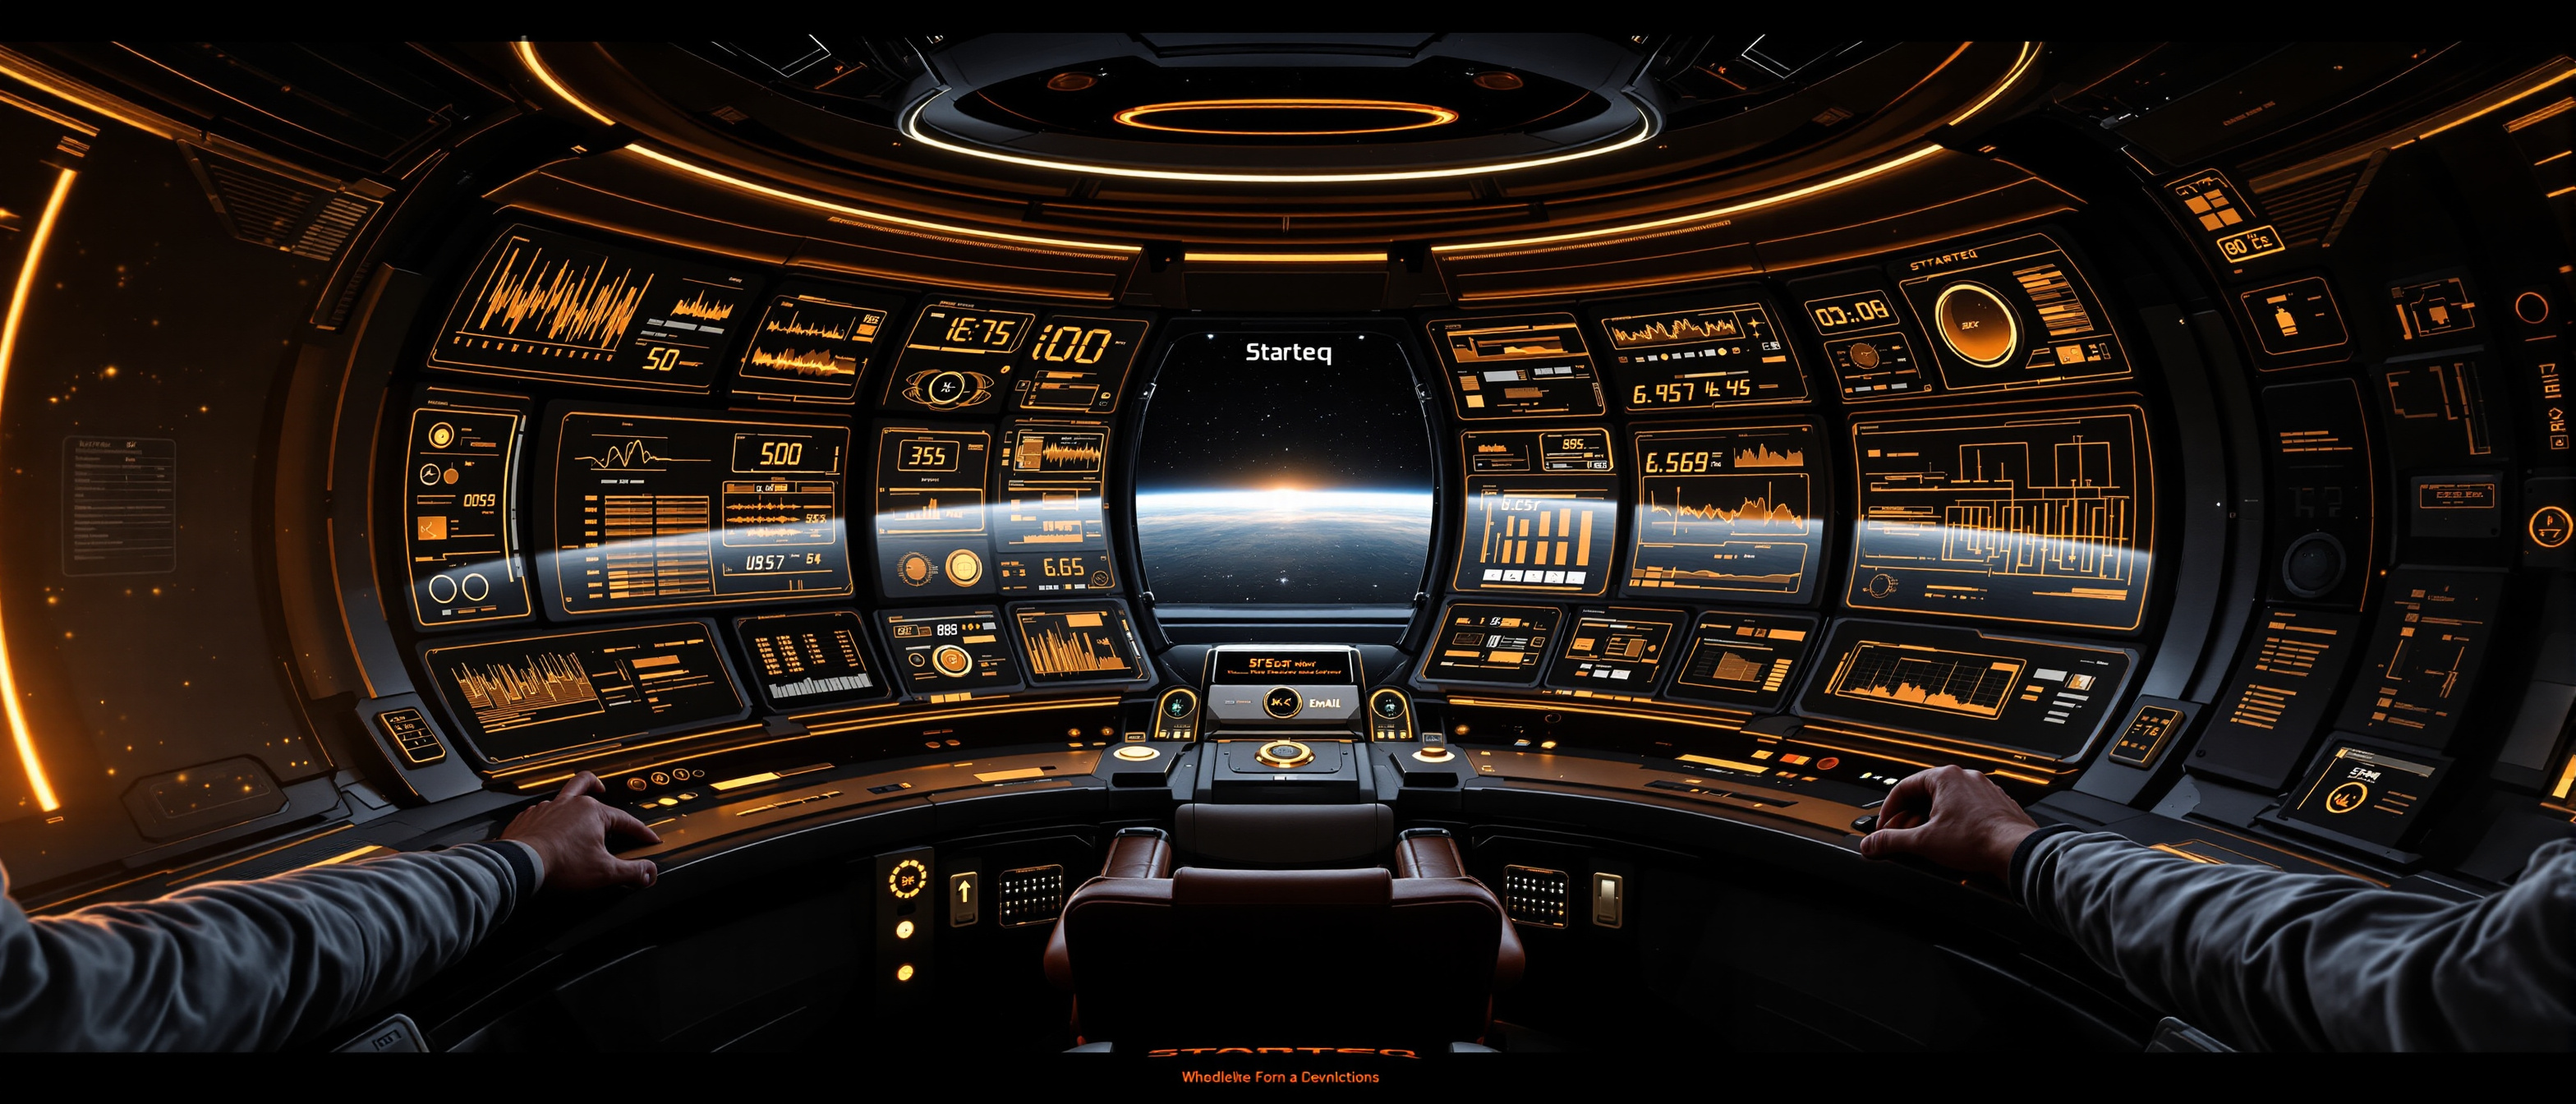
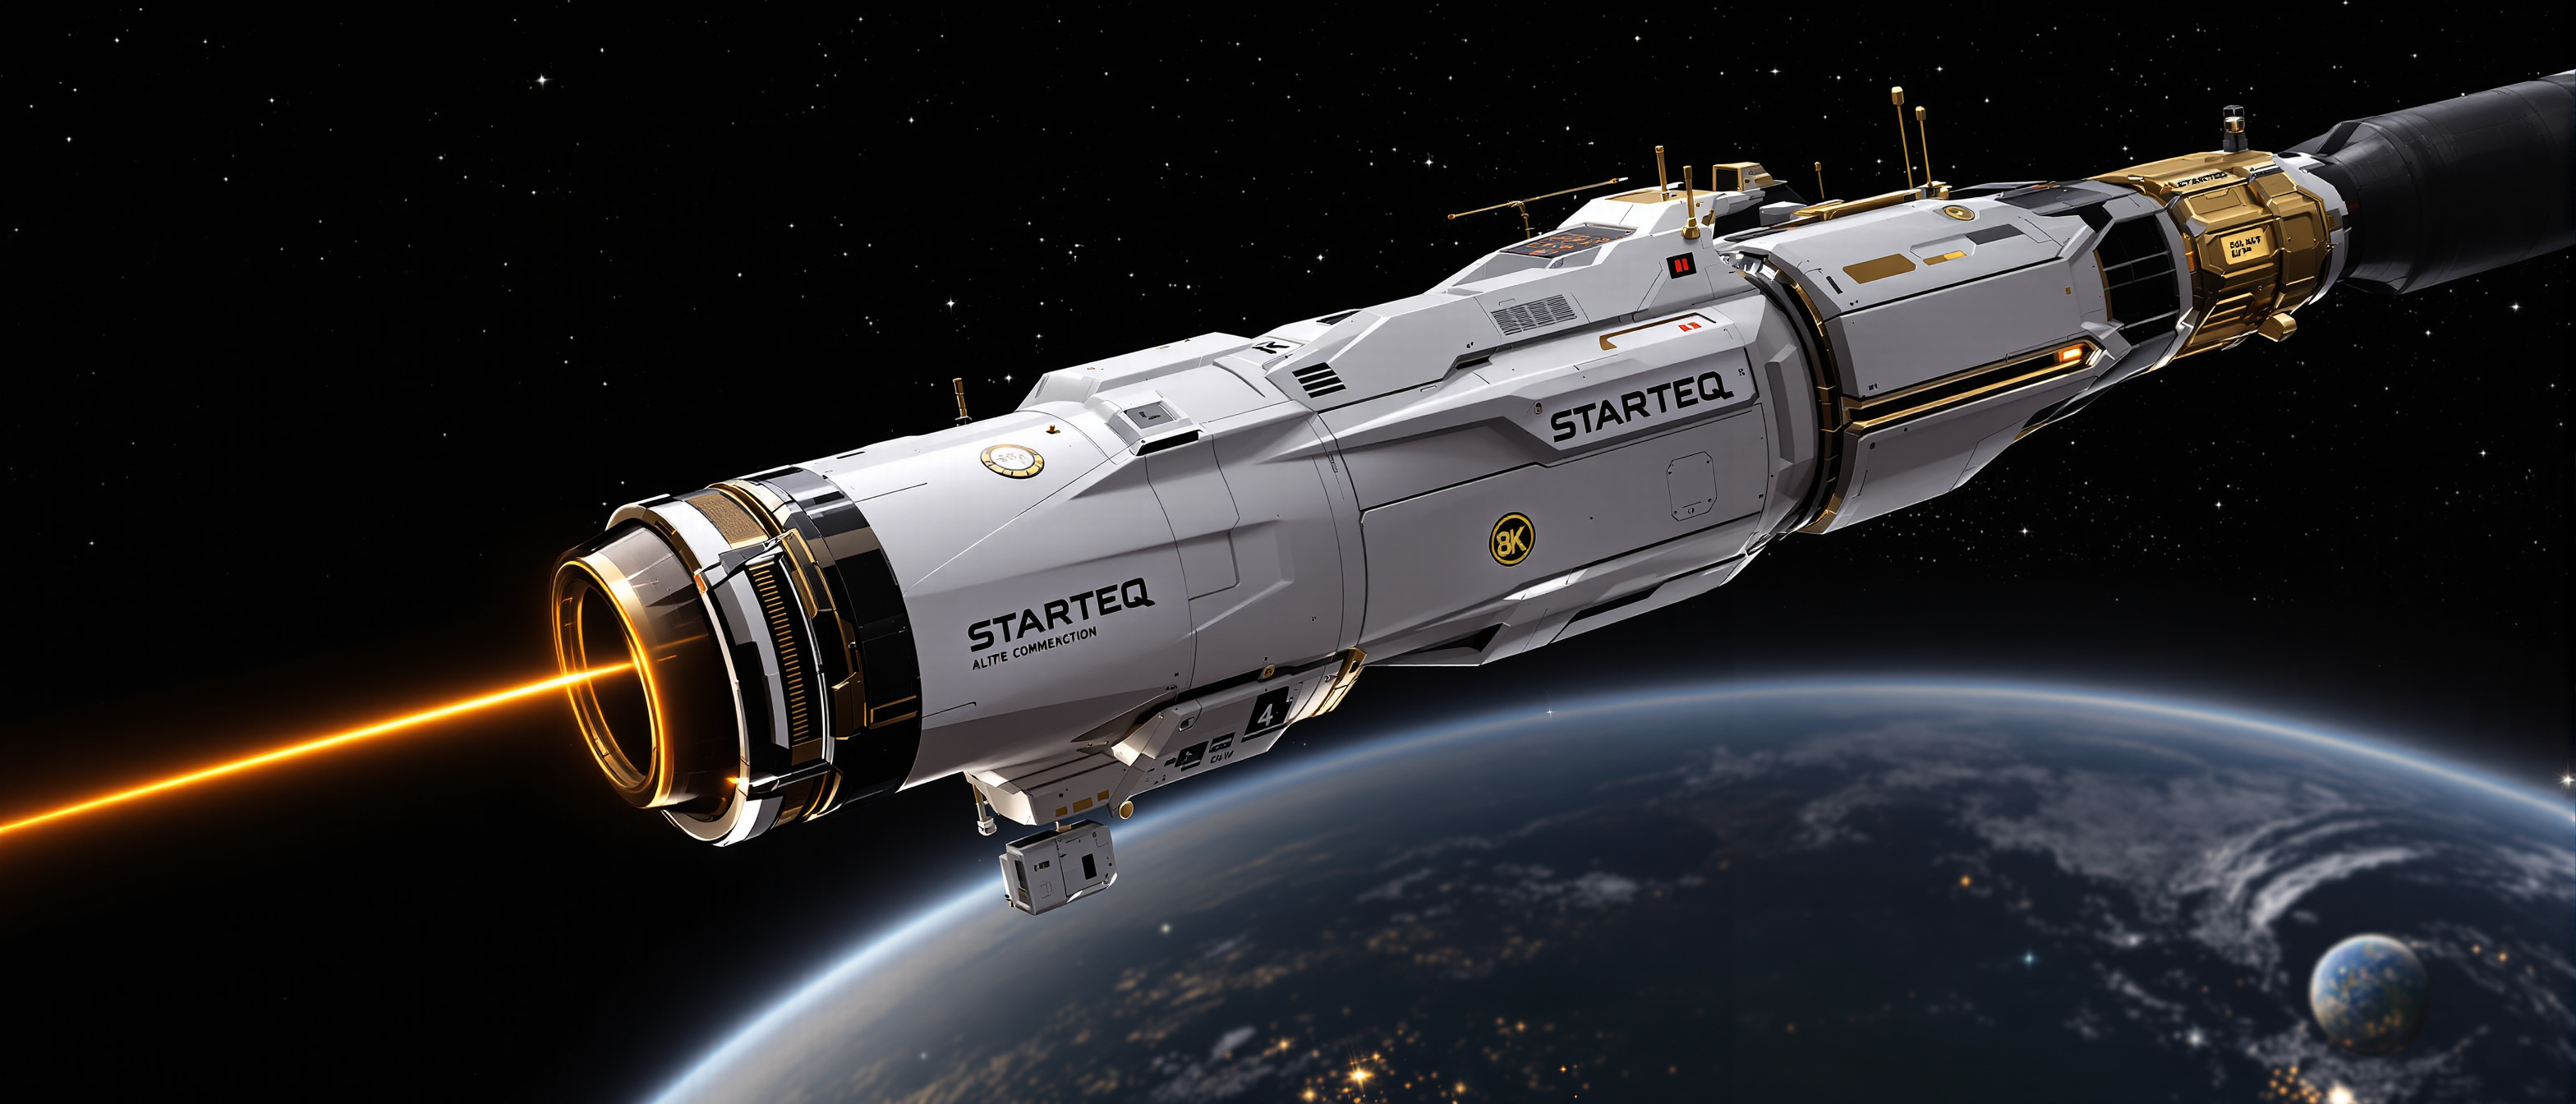
cta final · satelite Starteq real (era placeholder cockpit) · 5a peca do universo · object-position center pra mostrar raio gold inteiro saindo da antena + Earth com luzes Palmas visivel no canto

diff --git a/src/app/page.tsx b/src/app/page.tsx
@@ -513,15 +513,15 @@ export default function Home() {
           sizes="(max-width: 768px) 100vw, 1px"
           className="md:hidden object-cover object-center"
         />
-        {/* Desktop: satélite wide na direita · Earth no horizonte */}
+        {/* Desktop: satélite wide · mostra raio gold inteiro saindo da antena pra esquerda */}
         <Image
           src="/satelite-desktop.jpg"
           alt="Satélite Starteq · linha direta de comunicação com Palmas"
           fill
-          quality={90}
+          quality={92}
           sizes="(min-width: 768px) 100vw, 1px"
           className="hidden md:block object-cover"
-          style={{ objectPosition: "right center", filter: "brightness(1.05) saturate(1.05)" }}
+          style={{ objectPosition: "center center", filter: "brightness(1.08) saturate(1.08)" }}
         />
 
         {/* Gradient mobile · vertical fade pra preto inferior */}